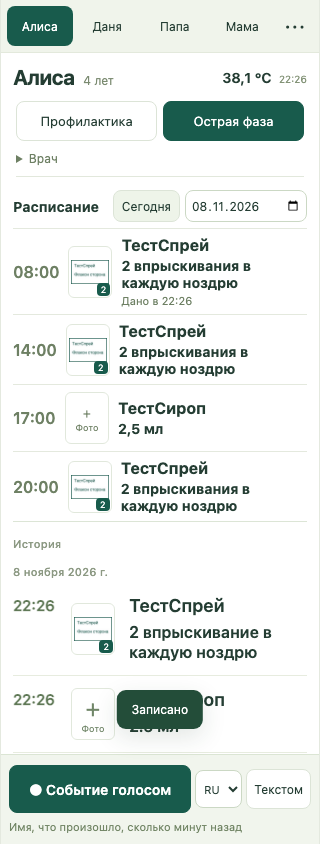
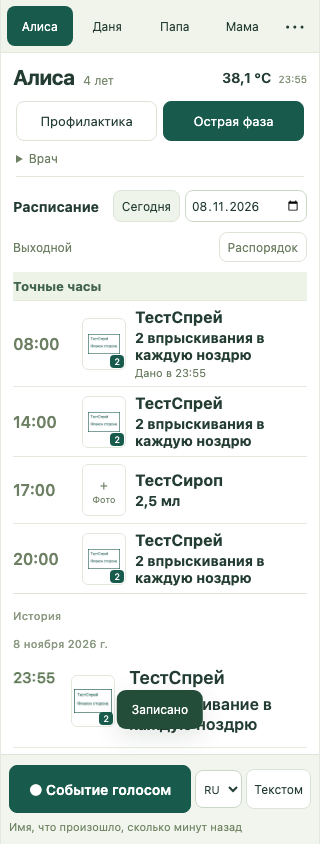
Group medication schedules by personal weekday and weekend routines

diff --git a/site/public/style.css b/site/public/style.css
@@ -9,3 +9,7 @@
 .medicine-photo svg{display:block;width:100%;height:100%;overflow:hidden}.package-photos svg{display:block;width:100%;height:210px;overflow:hidden}.package-photos>div>b{display:block;font-size:12px;margin-bottom:8px}.package-photos img{width:auto}label>small{display:block;font-weight:400;font-size:12px;color:#63765d;margin:4px 0}
 
 .patient-schedule{padding-top:8px;border-bottom:1px solid #dce5d6;margin-bottom:12px}.patient-schedule>header{display:grid;grid-template-columns:1fr auto auto;gap:5px;align-items:center;padding-bottom:6px}.patient-schedule h2{font-size:14px;margin:0}.patient-schedule>header button{font-size:12px;padding:5px 8px;min-height:32px}.patient-schedule>header button[aria-pressed=true]{background:#eef4e9}.patient-schedule input{width:122px;font-size:12px;padding:5px;min-height:32px}.schedule-row{display:flex;align-items:center;gap:9px;padding:7px 0;border-top:1px solid #e4e9de}.schedule-row>time{flex:0 0 43px;font-size:16px;font-weight:600;color:#6e8064}.schedule-row>div{flex:1;min-width:0}.schedule-row strong,.schedule-row b,.schedule-row span{display:block;overflow-wrap:anywhere}.schedule-row strong{font-size:16px}.schedule-row b{font-size:14px;margin-top:3px}.schedule-row span{font-size:11px;color:#6e8064;margin-top:3px}.patient-schedule .quiet{margin:8px 0 12px}
+
+[hidden]{display:none!important}.routine-toolbar{display:flex;align-items:center;justify-content:space-between;font-size:12px;color:#6e8064;margin:4px 0 6px}.routine-toolbar button{min-height:30px;padding:4px 8px;font-size:12px}.schedule-group h3{font-size:13px;margin:10px 0 0;padding:6px 0;background:#eef3e8;color:#43654f}.schedule-row>time{flex-basis:52px;overflow-wrap:anywhere}.schedule-row>button{font-size:11px;padding:5px;min-height:30px}.routine-slot{margin:10px 0;padding:6px 10px;border:1px solid #dce4d7;border-radius:8px}.routine-slot legend{font-size:13px;font-weight:600}.routine-slot label{margin:6px 0}.routine-tabs{margin:4px 0 12px}.routine-times label{grid-template-columns:100px 1fr;align-items:center}.routine-times input{min-width:0}
+
+.schedule-row>time{flex-basis:60px;overflow-wrap:normal}

diff --git a/site/public/prescription-summary.js b/site/public/prescription-summary.js
@@ -3,7 +3,7 @@ const plural=(n,forms)=>forms[Number.isInteger(Number(n))?(Number(n)%100>=11&&Nu
 export function prescriptionSummary(r){
   const times=timesOf(r),source=String(r.sourceText||'').replace(/\s+/g,' ');
   const stated=source.match(/(?:не\s+более\s+|не\s+чаще\s+|до\s+)?\d+(?:\s*[–-]\s*\d+)?\s*раз(?:а)?\s*в\s*(?:день|сутки|неделю)/iu)?.[0]||'';
-  const frequency=r.type==='prn'?'По необходимости':r.type==='once'?'Однократно':r.type==='interval'&&r.intervalHours?`Каждые ${r.intervalHours} ч`:r.type==='daily'&&times.length?`${times.length} ${plural(times.length,['раз','раза','раз'])} в день`:stated||'Частота не указана';
+  const frequency=r.type==='prn'?'По необходимости':r.type==='once'?'Однократно':r.type==='interval'&&r.intervalHours?`Каждые ${r.intervalHours} ч`:r.type==='routine'&&r.routineSlots?.length?`${r.routineSlots.length} ${plural(r.routineSlots.length,['раз','раза','раз'])} в день`:r.type==='daily'&&times.length?`${times.length} ${plural(times.length,['раз','раза','раз'])} в день`:stated||'Частота не указана';
   const unit=r.unit==='впрыскивание'?plural(r.dose,['впрыскивание','впрыскивания','впрыскиваний']):r.unit||'';
   const dose=r.dose?[String(r.dose).replace('.',','),unit,r.doseScope==='each-nostril'?'в каждую ноздрю':''].filter(Boolean).join(' '):'Доза не указана';
   const sequence=source.match(/Через\s+\d+(?:\s*[–-]\s*\d+)?\s+минут\s+после\s+применения\s+[^\s,.;]+/iu)?.[0]?.replace(/\s+минут\s+/iu,' мин ')?.replace(/после применения/iu,'после')||'';

diff --git a/site/public/routine.js b/site/public/routine.js
@@ -1,0 +1,14 @@
+export const anchors={breakfast:'Завтрак',lunch:'Обед',dinner:'Ужин',secondDinner:'Второй ужин',bedtime:'Перед сном'};
+export const relations={'':'К точке дня',before:'До еды',with:'Во время еды',after:'После еды'};
+export const dayType=date=>[0,6].includes(new Date(date+'T12:00:00Z').getUTCDay())?'weekend':'weekday';
+export const emptyRoutine=()=>Object.fromEntries(['weekday','weekend'].map(d=>[d,{times:{},intakes:['breakfast','lunch','dinner']}]));
+export function slotDetails(slot,profile){
+  const index=['first','second','third'].indexOf(slot.anchor);
+  const anchor=index<0?slot.anchor:profile.intakes[index];
+  const raw=anchor==='clock'?slot.time:profile.times[anchor]||'';
+  const shifted=raw&&Number(slot.offsetMinutes)?raw.split('–').map(t=>{
+    const [h,m]=t.split(':').map(Number),minutes=h*60+m+Number(slot.offsetMinutes);
+    return String(Math.floor(minutes/60)).padStart(2,'0')+':'+String(minutes%60).padStart(2,'0');
+  }).join('–'):raw;
+  return {anchor:anchor||'unassigned',label:anchors[anchor]||(anchor==='clock'?'Точное время':'Не привязан'),displayTime:shifted||'',relation:slot.relation?relations[slot.relation]:'',offsetMinutes:Number(slot.offsetMinutes)||0};
+}

diff --git a/PROJECT.md b/PROJECT.md
@@ -28,7 +28,7 @@
 
 Отдельная страница **https://macbook-air-5.local/voice-lab** (также https://192.168.0.38/voice-lab). Доступна из «⋯ → Проверка голоса» и по внешней ссылке из чата. Для микрофона нужен тот же доверенный HTTPS-сертификат, что у основного приложения.
 
-Выбрать одну из шести фраз или «Своя фраза» → нажать «Записать голос» → прочитать → нажать «Сохранить запись». Паузы не обрывают запись; предел 45 секунд. Можно загрузить WAV/M4A/AIFF. Сохранённый WAV доступен для прослушивания и скачивания. Выбрать варианты и нажать «Сравнить выбранные». По умолчанию — Whisper Small + Whisper Medium → Sol; отдельные Whisper Small → Terra и Whisper Medium → Terra, дополнительно доступны Whisper Small → Sol, Whisper Medium → Sol и Whisper Small → Luna, все модели смысла на low. Whisper Base исключён из рабочих вариантов и отклоняется API. Прямое аудио Sol не включено, поскольку предыдущие пробы не дали полезного разбора.
+Выбрать одну из шести фраз или «Своя фраз����» → нажать «Записать голос» → прочитать → нажать «Сохранить запись». Паузы не обрывают запись; предел 45 секунд. Можно загрузить WAV/M4A/AIFF. Сохранённый WAV доступен для прослушивания и скачивания. Выбрать варианты и нажать «Сравнить выбранные». По умолчанию — Whisper Small + Whisper Medium → Sol; отдельные Whisper Small → Terra и Whisper Medium → Terra, дополнительно доступны Whisper Small → Sol, Whisper Medium → Sol и Whisper Small → Luna, все модели смысла на low. Whisper Base исключён из рабочих вариантов и отклоняется API. Прямое аудио Sol не включено, поскольку предыдущие пробы не дали полезного разбора.
 
 Каждому варианту подаётся один и тот же сохранённый WAV; SHA256 виден на странице и в результате. Для одинакового Whisper расшифровка общая, для разных моделей смысла сравнивается её обработка. В каждом результате два текстовых поля: «Распознал Whisper» — исходная расшифровка без исправлений, «Поняла модель» — связное представление возвращённых моделью полей (пациент, событие, препарат/количество/содержание и время; неясности указаны явно). Оба поля доступны для выделения/копирования, высота подстраивается под текст. Также показаны структурированные поля и задержки. Сверка с выбранной фразой не передаётся моделям; пользователь может отдельно поставить «Верно»/«Ошибка». Для своей фразы автоматического эталона нет. Время «назад» всегда считается от момента записи.
 
@@ -42,7 +42,7 @@
 
 ## Архитектура
 
-`site/`: Node.js 24+ со встроенной SQLite и браузерный JS без runtime npm-зависимостей. Изображения: локальный Apple Vision (Swift). Аудио → текст: локальный whisper.cpp: Whisper Small и Whisper Medium последовательно на одном подготовленном WAV, Metal на Mac. Смысл текста → событие: `gpt-6.1-sol` через Codex CLI 0.167.0, вход ChatGPT и лимиты текущей подписки, без отдельного API-ключа. Sol получает только две текстовые расшифровки, поэтому первый этап остался отдельным. CLI установлен только в игнорируемый `site/tools/codex`, системный Codex не обновлялся. Только русский и английский, до 45 секунд, один запрос распознавания одновременно. Исходный код и SHA256 модели закреплены в `site/voice-engine.json`; восстановление обоих движков — `node site/scripts/setup-voice.mjs all` (нужны git, cmake и Xcode Command Line Tools). Модель и сборка исключены из Git. Аудио удаляется после обработки; распознанная фраза сохраняется с записанным событием.
+`site/`: Node.js 24+ со встроенной SQLite и браузерный JS без runtime npm-зависимостей. Изображения: локальный Apple Vision (Swift). Аудио → текст: локальный whisper.cpp: Whisper Small и Whisper Medium последовательно на одном подготовленном WAV, Metal на Mac. Смысл текста → событие: `gpt-6.1-sol` через Codex CLI 0.167.0, вход ChatGPT и лимиты текущей подписки, без отдельного API-ключа. Sol получает только две текстовые расшифровки, поэтому первый этап остался отдельным. CLI установлен только в игнорируемый `site/tools/codex`, системный Codex не обновлялся. Только русский и английский, до 45 секунд, один запрос распознавания одновременно. Исходный код и SHA256 модели з��к��еплены в `site/voice-engine.json`; восстановление обоих движков — `node site/scripts/setup-voice.mjs all` (нужны git, cmake и Xcode Command Line Tools). Модель и сборка исключены из Git. Аудио удаляется после обработки; распознанная фраза сохраняется с записанным событием.
 
 Для переноса Terra-интеграции: `node site/scripts/setup-codex.mjs`; нужен существующий вход `codex login` через ChatGPT. Запросы идут последовательно в ephemeral-сессиях, с низким reasoning и JSON Schema, без пользовательских MCP-настроек, shell, apps и multi-agent. На лимите/ошибке нет автоматических повторов, платного API-fallback или записи факта. Сервер проверяет человека по исходной фразе, числа, единицы и время до сохранения. Повтор clientKey возвращает уже созданный факт без нового обращения к модели.
 
@@ -69,7 +69,7 @@
 
 ## Фото упаковки и препарата
 
-Рядом с названием лекарства в назначениях и истории показано превью 44 × 52 пикселя самого флакона/блистера. По нажатию открываются два снимка: упаковка и препарат. По точному названию или известному русскому/латинскому написанию автоматически выбирается локальное справочное фото: Rinofluimucil, Neladex-NS, Nasacort, Elizium, Zespira, Kagocel. Файлы и ссылки на источники перечислены в `reports/medicine-image-sources.json`; суммарно около 156 КБ. Внешних запросов при просмотре нет. Насакорт на справочном фото — 55 мкг/доза, в исходной выписке — 50; отличие явно показано в окне фото. Фото не меняет назначение.
+Рядом с названием лекарства в назначениях и истории показа��о превью 44 × 52 пикселя самого флакона/блистера. По нажатию открываются два снимка: упаковка и препарат. По точному названию или известному русскому/латинскому написанию автоматически выбирается локальное справочное фото: Rinofluimucil, Neladex-NS, Nasacort, Elizium, Zespira, Kagocel. Файлы и ссылки на источники перечислены в `reports/medicine-image-sources.json`; суммарно около 156 КБ. Внешних запросов при просмотре нет. Насакорт на справочном фото — 55 мкг/доза, в исходной выписке — 50; отличие явно показано в окне фото. Фото не меняет назначение.
 
 Нажать превью или «＋ Фото» → выбрать один-два своих снимка. При двух снимках первый — упаковка, второй — флакон/тюбик/ампула/блистер; при одном — сам препарат. Второй используется в превью. Они заменяют справочный пример для этого названия у всех членов семьи. Для общего названия «Парацетамол свечи» конкретная упаковка не угадывается. Непривязанные названия также получают кнопку загрузки. Файлы JPEG/PNG/WebP сначала уменьшаются браузером, затем локальным `sips`: до 320 пикселей и 32 КБ каждый. Один серверный запрос обработки одновременно, без очереди и повторов. Свои изображения хранятся в закрытой SQLite и включаются в резервную копию v4; старые копии без этого раздела поддерживаются. Автопоиск упаковок для любых новых названий в интернете не реализован.
 
@@ -81,3 +81,12 @@
 Основной голосовой путь: Whisper Small + Whisper Medium → один GPT-6.1 Sol (low). Обе расшифровки сохраняются дословно с заголовками моделей в sourceText, поэтому видны в подробностях события и входят в копию v4. Аудио за пределы Mac не передаётся и после обработки удаляется. На основном пути нет автоматических повторов и одностороннего fallback: нужны обе установленные модели, ASR-замок удерживается на всю обработку. `setup-voice.mjs` без аргумента устанавливает обе модели (`all`). Контекст Sol: имена/ID семьи, названия действующих лекарств и общий словарь; дозы, возраст, диагнозы и история в него не подставляются.
 
 На /voice-lab новый вариант `dual-sol` использует тот же сохранённый WAV и готовые расшифровки Whisper Small/Whisper Medium. Каждый завершённый ASR-шаг сохраняется до запуска Sol; после прерывания уже готовый не повторяется. Один вариант = один модельный разбор. Старые варианты, аудио и оценки сохранены; для новых браузеров объединённый вариант выбран по умолчанию. Проверки с синтетическими данными: `reports/dual-asr-canary.json`, `reports/dual-asr-models.json`. Первая — настоящий звук → две ASR → Sol → запись/повтор/перезапуск/backup/restore; вторая — сочетание дополняющих друг друга расшифровок и конфликт температуры. Это не оценка качества на реальном голосе пользователя.
+
+
+## Распорядок и точки дня
+
+У пациента есть два распорядка — будни и выходные. Точки: завтрак, обед, ужин, второй ужин и перед сном. Часы допускают точное время, диапазон или пустое значение. Кнопка «Распорядок» расположена над расписанием и в меню пациента. Первый, второй и третий приёмы можно связать с разными точками у разных людей; общий вариант — завтрак, обед и ужин. В детских профилях третий оставлен без общей привязки и выбирается для каждого препарата. Каждый препарат может переопределить эту привязку, включая точное время. До/во время/после еды — отдельное явное условие, оно не возникает от одной группировки. Минуты до/после еды автоматически не вычисляются.
+
+В карточке назначения есть «По распорядку» / «Точные часы». Кратность не означает равные интервалы. Интервальные, разовые курсы и приём по необходимости сохраняют прежнюю логику. Точные врачебные часы не конвертируются автоматически. В расписании — компактные группы с названием, дозой, временем и отметкой факта. Неизвестный приём виден в «Нужно привязать приём»; он не исчезает из плана.
+
+Ключ факта распорядка привязан к курсу, дате и номеру приёма. Смена часов не создаёт второй факт и не переписывает уже сохранённое время. При переносе прежних курсов legacyTimes связывает старые отметки с новыми слотами. Backup v4 сохраняет оба вида ключей и пустое время. Тесты: 36 unit/API, общий canary и `site/scripts/routine-canary.mjs`; последний проверяет на одном синтетическом приложении пять размеров, личные будни/выходные, диапазоны, второй ужин, неизвестный третий, отмену редактирования, сохранение старых фактов, новые отметки, перезапуск и полное восстановление. Отчёты: `reports/routine-canary.json`, `reports/routine-live.json`. Физический iPad не проверен.

diff --git a/README.md b/README.md
@@ -2,13 +2,15 @@
 
 Локальное приложение для назначений и приёма лекарств нескольких людей.
 
-**Общая доска семьи:** http://medika.localhost · **Диспетчер:** http://127.0.0.1:4317/project?id=5bc913d8-ae85-470b-a91e-251a2a589364
+**Медика на Mac:** http://medika.localhost · **Диспетчер:** http://127.0.0.1:4317/project?id=5bc913d8-ae85-470b-a91e-251a2a589364
 
-**С iPad/телефона в домашнем Wi-Fi:** http://192.168.0.38 или http://macbook-air-5.local — без порта и смены DNS. Mac должен работать. `localhost` относится к устройству, на котором открывают ссылку. Приложение доступно доверенным устройствам подсети 192.168.0.0/24; отдельных аккаунтов и TLS пока нет.
+**С iPad/телефона в домашнем Wi-Fi:** http://192.168.0.38 или http://macbook-air-5.local — без порта и смены DNS. Mac должен работать. `localhost` относится к устройству, на котором открывают ссылку. Приложение доступно доверенным устройствам подсети 192.168.0.0/24; отдельных аккаунтов нет. Для микрофона использовать доверенный HTTPS: https://macbook-air-5.local или https://192.168.0.38.
 
-На главной крупно показаны название, доза и время, мелко — имена получателей. Шапка телефона занимает одну строку. Остальные сведения и уточнение схемы открываются нажатием на лекарство. Условная схема, профили и документы свёрнуты. Алиса и Даня имеют отдельные назначения и факты, даже если строки общей выписки объединены. Неподтверждённые даты и дозы не превращаются в действующее расписание.
+Главная: пациент → расписание и личная история. Название, доза и время показаны компактно. Предписание врача свёрнуто; профилактика/острая фаза переключаются двумя кнопками.
 
-**Быстрая запись любого факта:** «＋ Запись» → человек → событие. Диарея и рвота сохраняются одним нажатием. Температура, ингаляция, лекарство вне схемы и произвольное действие — через короткую форму. Общее время по умолчанию — сейчас, его можно изменить. Все записи видны в «Меню → Журнал»; последнее событие дня и температура — на главной. Поддерживаются отмена ошибочной записи и резервная копия.
+Расписание группируется по точкам дня: завтрак, обед, ужин, второй ужин и перед сном. В «Распорядке» — часы и личные привязки на будни/выходные. В карточке препарата — режим «По распорядку» или «Точные часы», отдельная привязка каждого приёма и явные условия относительно еды. Неизвестный третий приём виден до настройки.
+
+**Быстрая запись факта:** общая кнопка «Событие голосом», без выбора пациента. Сказать имя, событие, количество и время; однозначный факт сохраняется с возможностью отмены. Неясная фраза требует повтора или исправления.
 
 Описание и эксплуатация: [PROJECT.md](PROJECT.md). Готовые возможности и ограничения: [STATUS.md](STATUS.md). Проверки: [reports/test-report.md](reports/test-report.md).
 
@@ -16,7 +18,7 @@
 
 1. Добавить человека.
 2. Создать назначение вручную или загрузить выписку в PNG, JPEG, WebP. Текст также можно вставить вручную.
-3. Сверить распознанные поля с оригиналом, указать даты и часы, подтвердить перенос.
+3. Сверить распознанные поля с оригиналом, указать даты и привязки к распорядку либо точные часы, подтвердить перенос.
 4. В расписании отмечать фактический приём. В справочнике проверять предполагаемый препарат с назначениями выбранного человека.
 
 Доза из назначения и общая справочная информация разделены. Проверка совместимости сейчас ограничена 8 веществами / 4 правилами и всегда обозначается как неполная. Расчёт детских доз не предусмотрен.

diff --git a/reports/approach-notes.md b/reports/approach-notes.md
@@ -27,3 +27,6 @@
 По прямому требованию пользователя Whisper Base удалён из оперативных путей, а не только из названий: модели/default, варианты API/страницы, установщик и benchmark. Основной ввод переведён на Whisper Small. Следующая стандартная по размеру модель — Whisper Medium; первичный источник и blob metadata подтверждены, загрузка проверена префиксом/размером/SHA256. Потоковая загрузка не держит 1,53 GB целиком в памяти. На двух синтетических примерах модель запускается на этом Mac за приемлемое время, но ошибки названия препарата сохраняются; это основание добавить её в сравнение, не объявлять качество готовым. Старые результаты не мигрируют в результаты Medium, меняется только browser selection.
 
 Восстановление после ASR: обнаружено, что прежний запрет «не выдумывать лекарство по созвучию» блокировал полезную нормализацию и не соответствовал запросу пользователя на понимание речи. По явному указанию пользователя ограничение заменено восстановлением из известных лекарств с приоритетом списка пациента. Сохранены границы: не придумывать числовые факты и не выдавать нескольких кандидатов за однозначный результат. Canary с искажённым синтетическим названием прошёл до расширенной проверки. Старый результат не считается проверкой нового подхода: семантический кэш учитывает версию правил и минимальный словарь; предыдущие результаты архивируются, ASR/WAV переиспользуются.
+
+
+Распорядок: canary обнаружил, что прежний backup опускал пустое поле time, поэтому восстановленный факт без точного часа отличался от сохранённого. Перенос рабочих курсов остановлен до исправления. Причина — проверка истинности вместо наличия поля в backup.mjs. Теперь пустое значение сохраняется; защита — глубокое сравнение исходных и восстановленных events вместе с ключами распорядка. Минимальный полный прогон и затем общий canary прошли до миграции рабочих данных.
